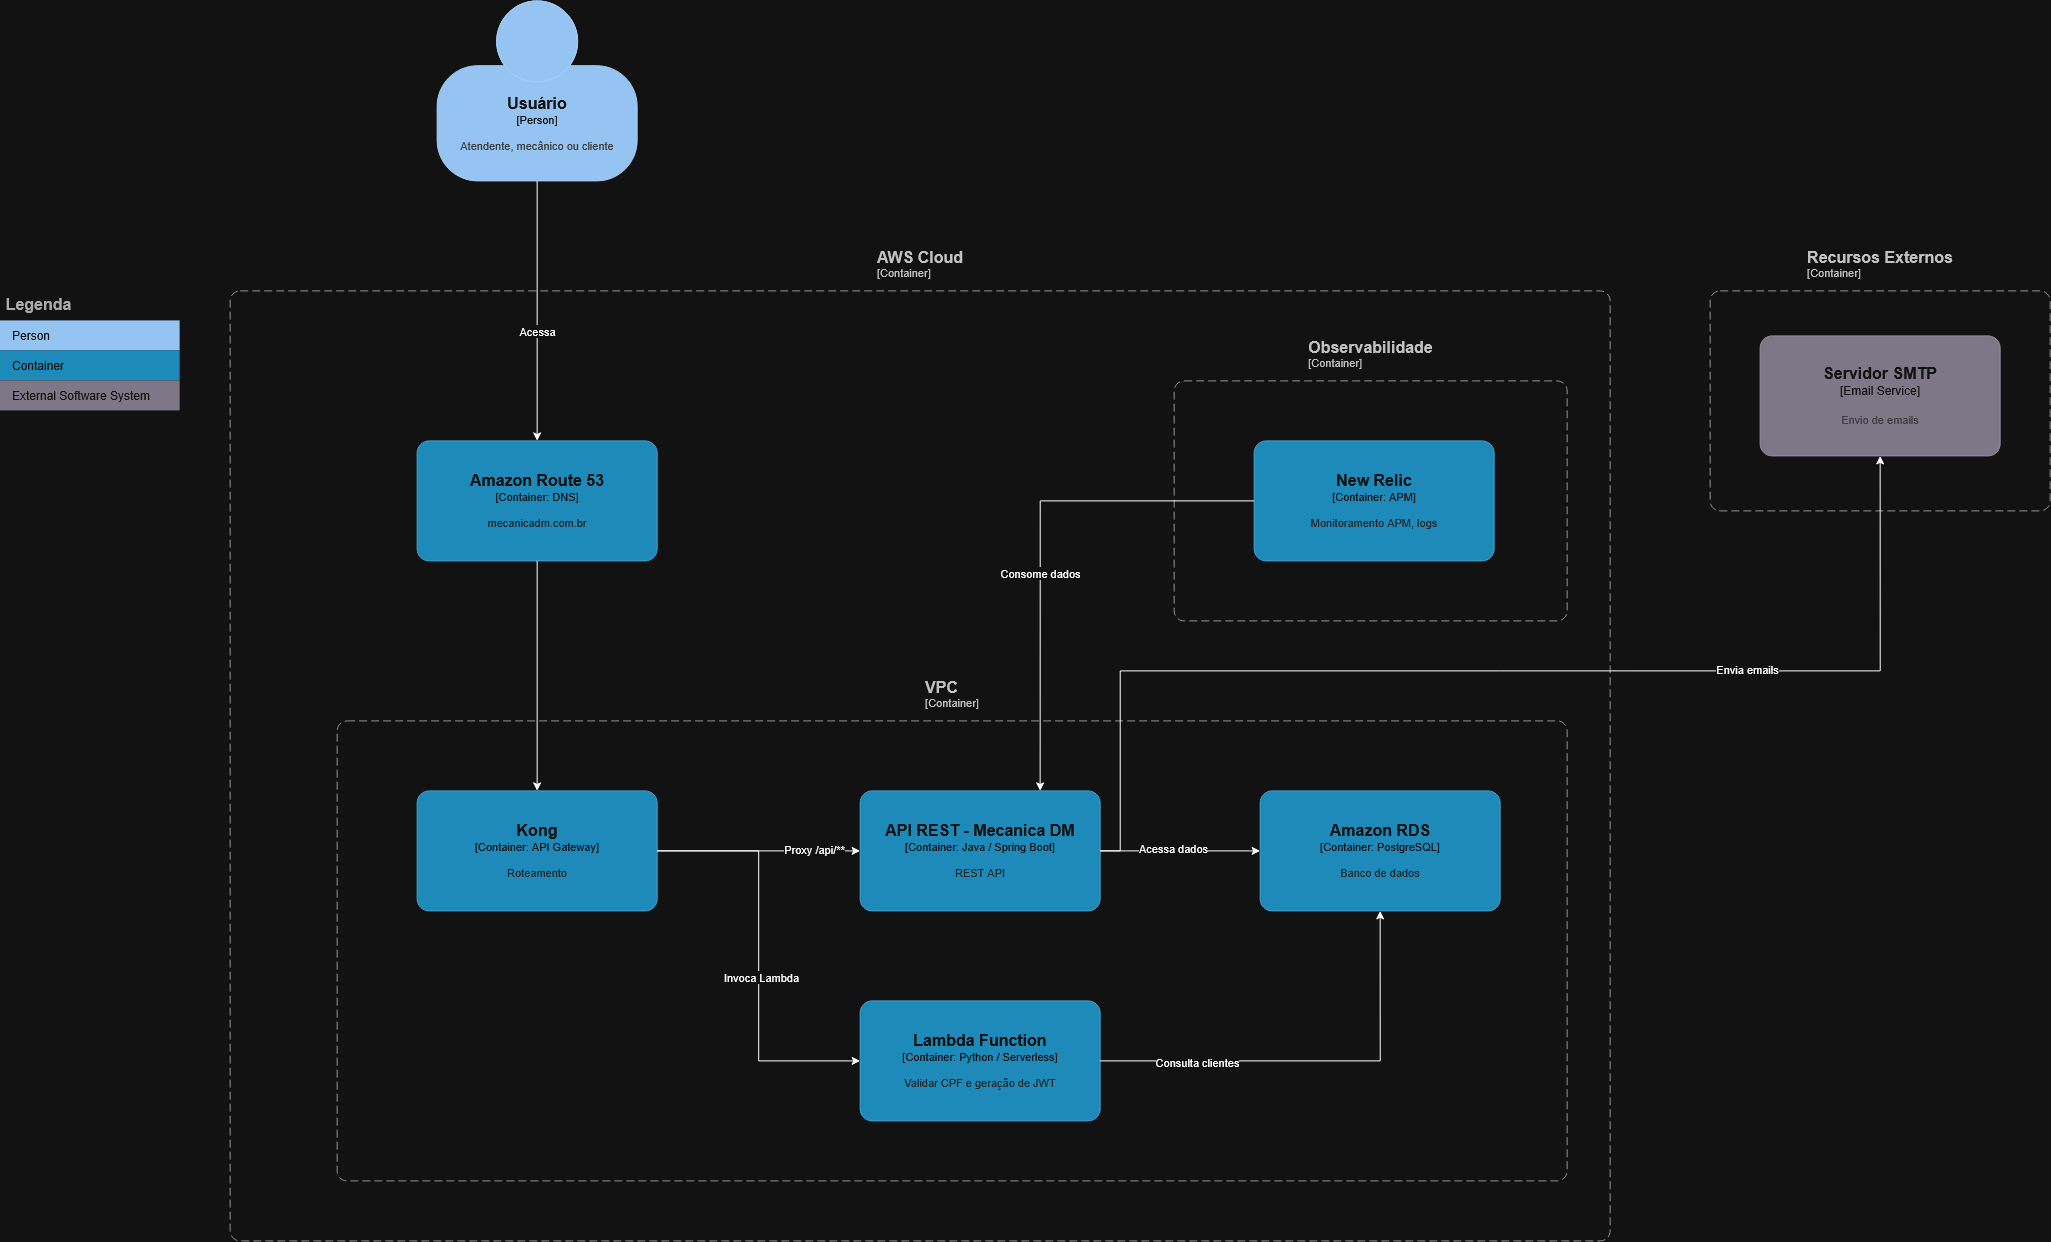
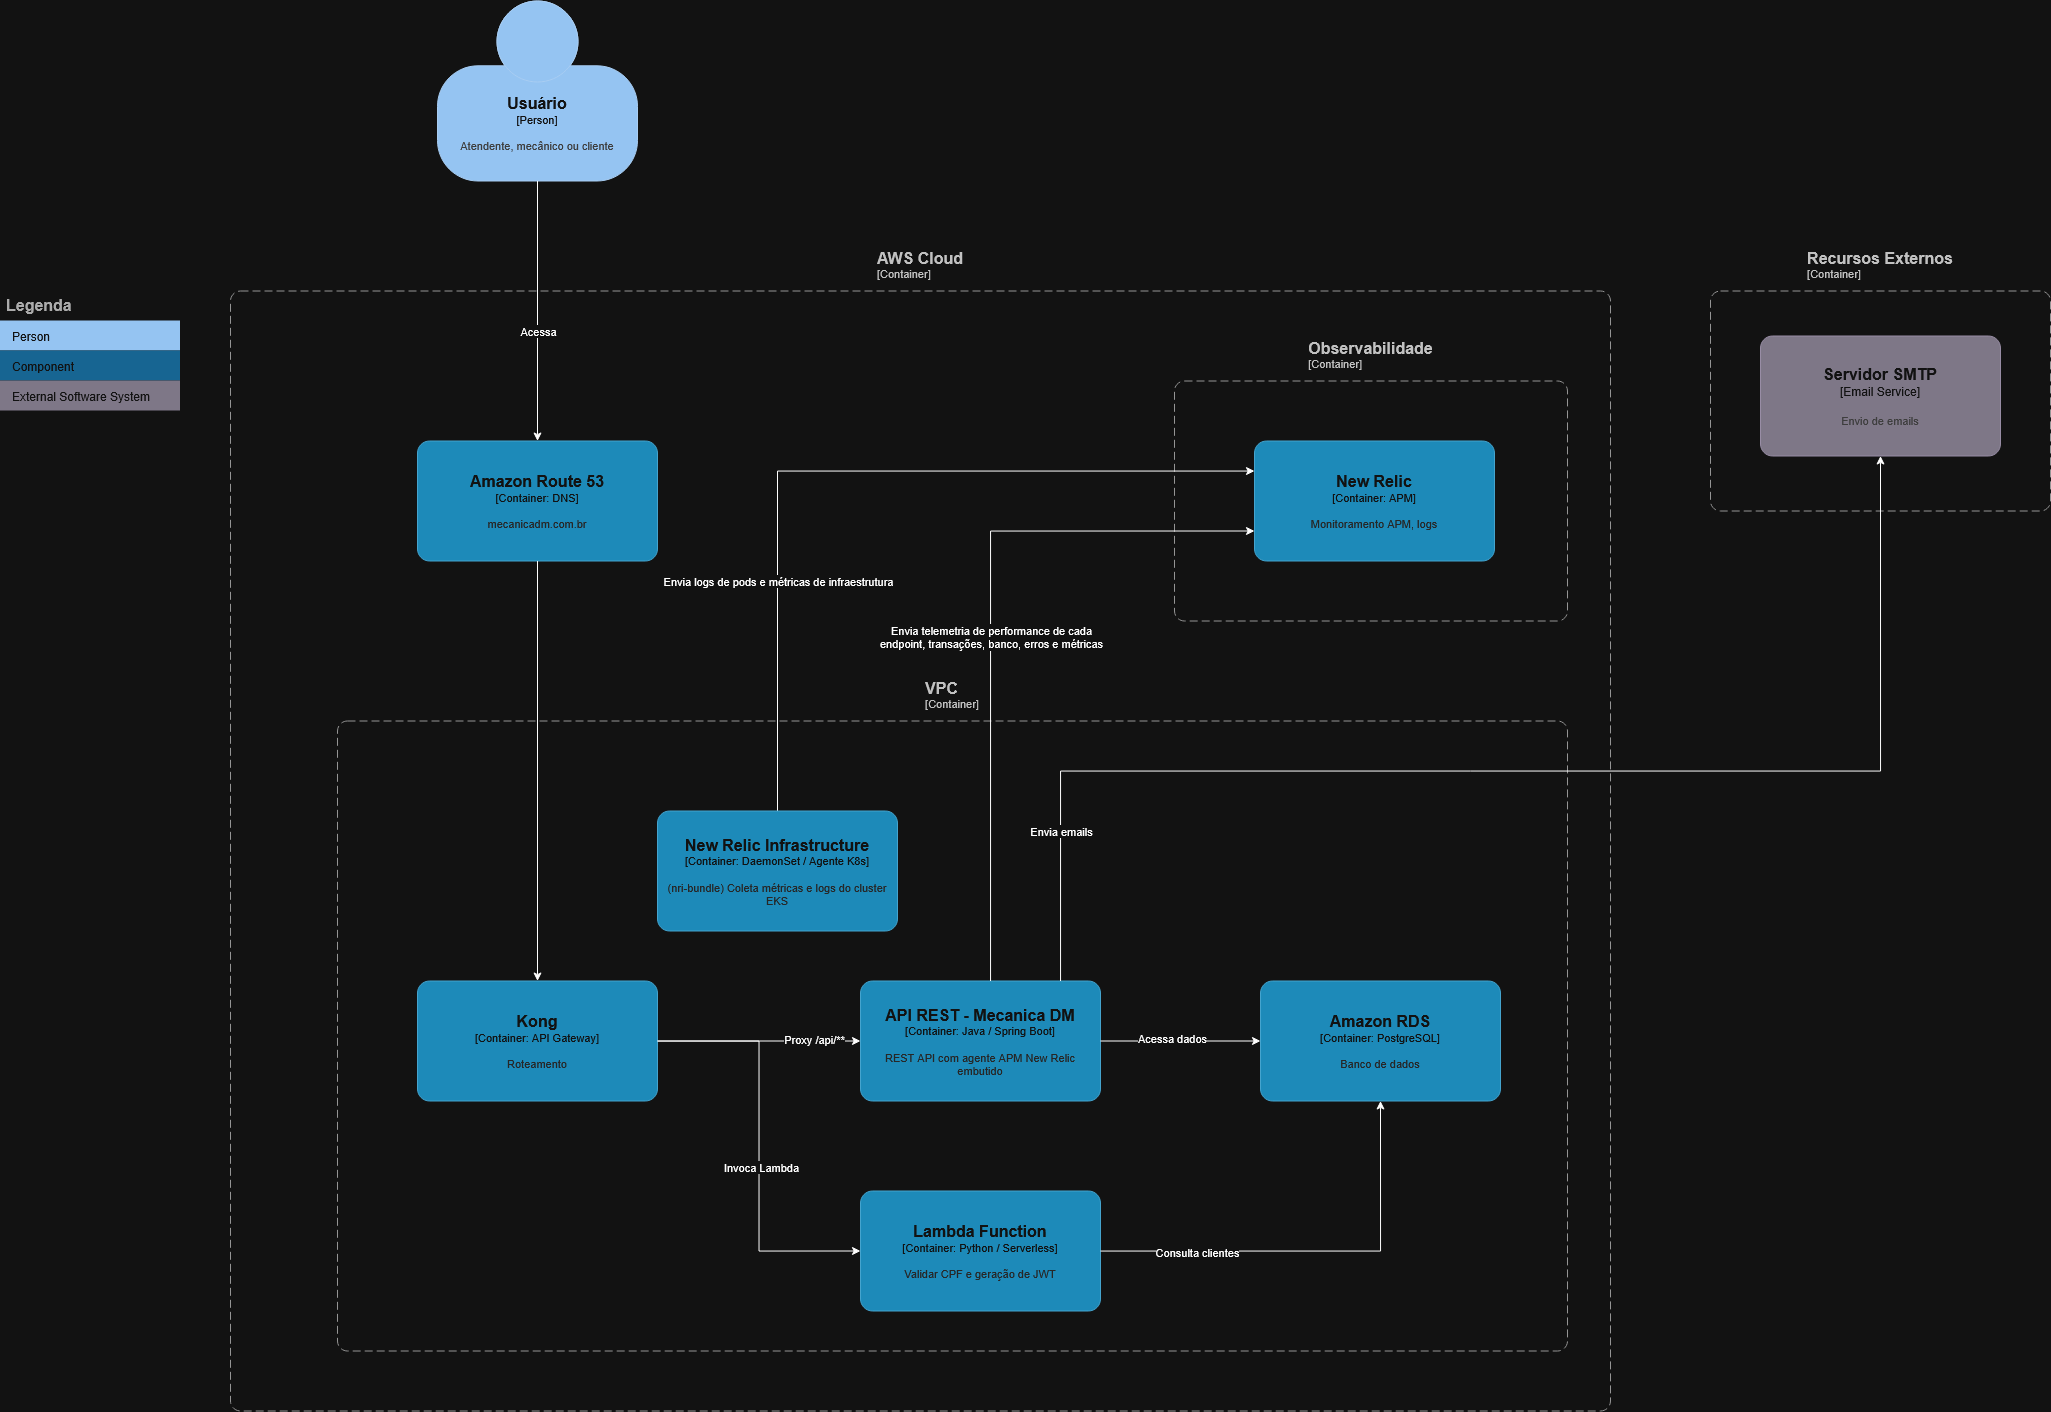
feat(readme): Atualizacao diagrama de componentes infra (#4)
* feat(readme): Atualizacao diagrama sequencia Lambda

* feat(readme): Atualizacao path swagger

* feat(readme): Atualizacao diagrama de componentes infra

diff --git a/README.md b/README.md
@@ -341,7 +341,7 @@ Para ir mais a fundo em como executar o kubernetes no projeto, basta acessar a d
 
 Com a API em execução, a documentação interativa do Swagger UI fica disponível em:
 
-`http://localhost:80/swagger-ui.html`
+`http://localhost:8080/api/swagger-ui/index.html`
 
 A especificação OpenAPI 3 pode ser acessada em `/v3/api-docs`.
 
